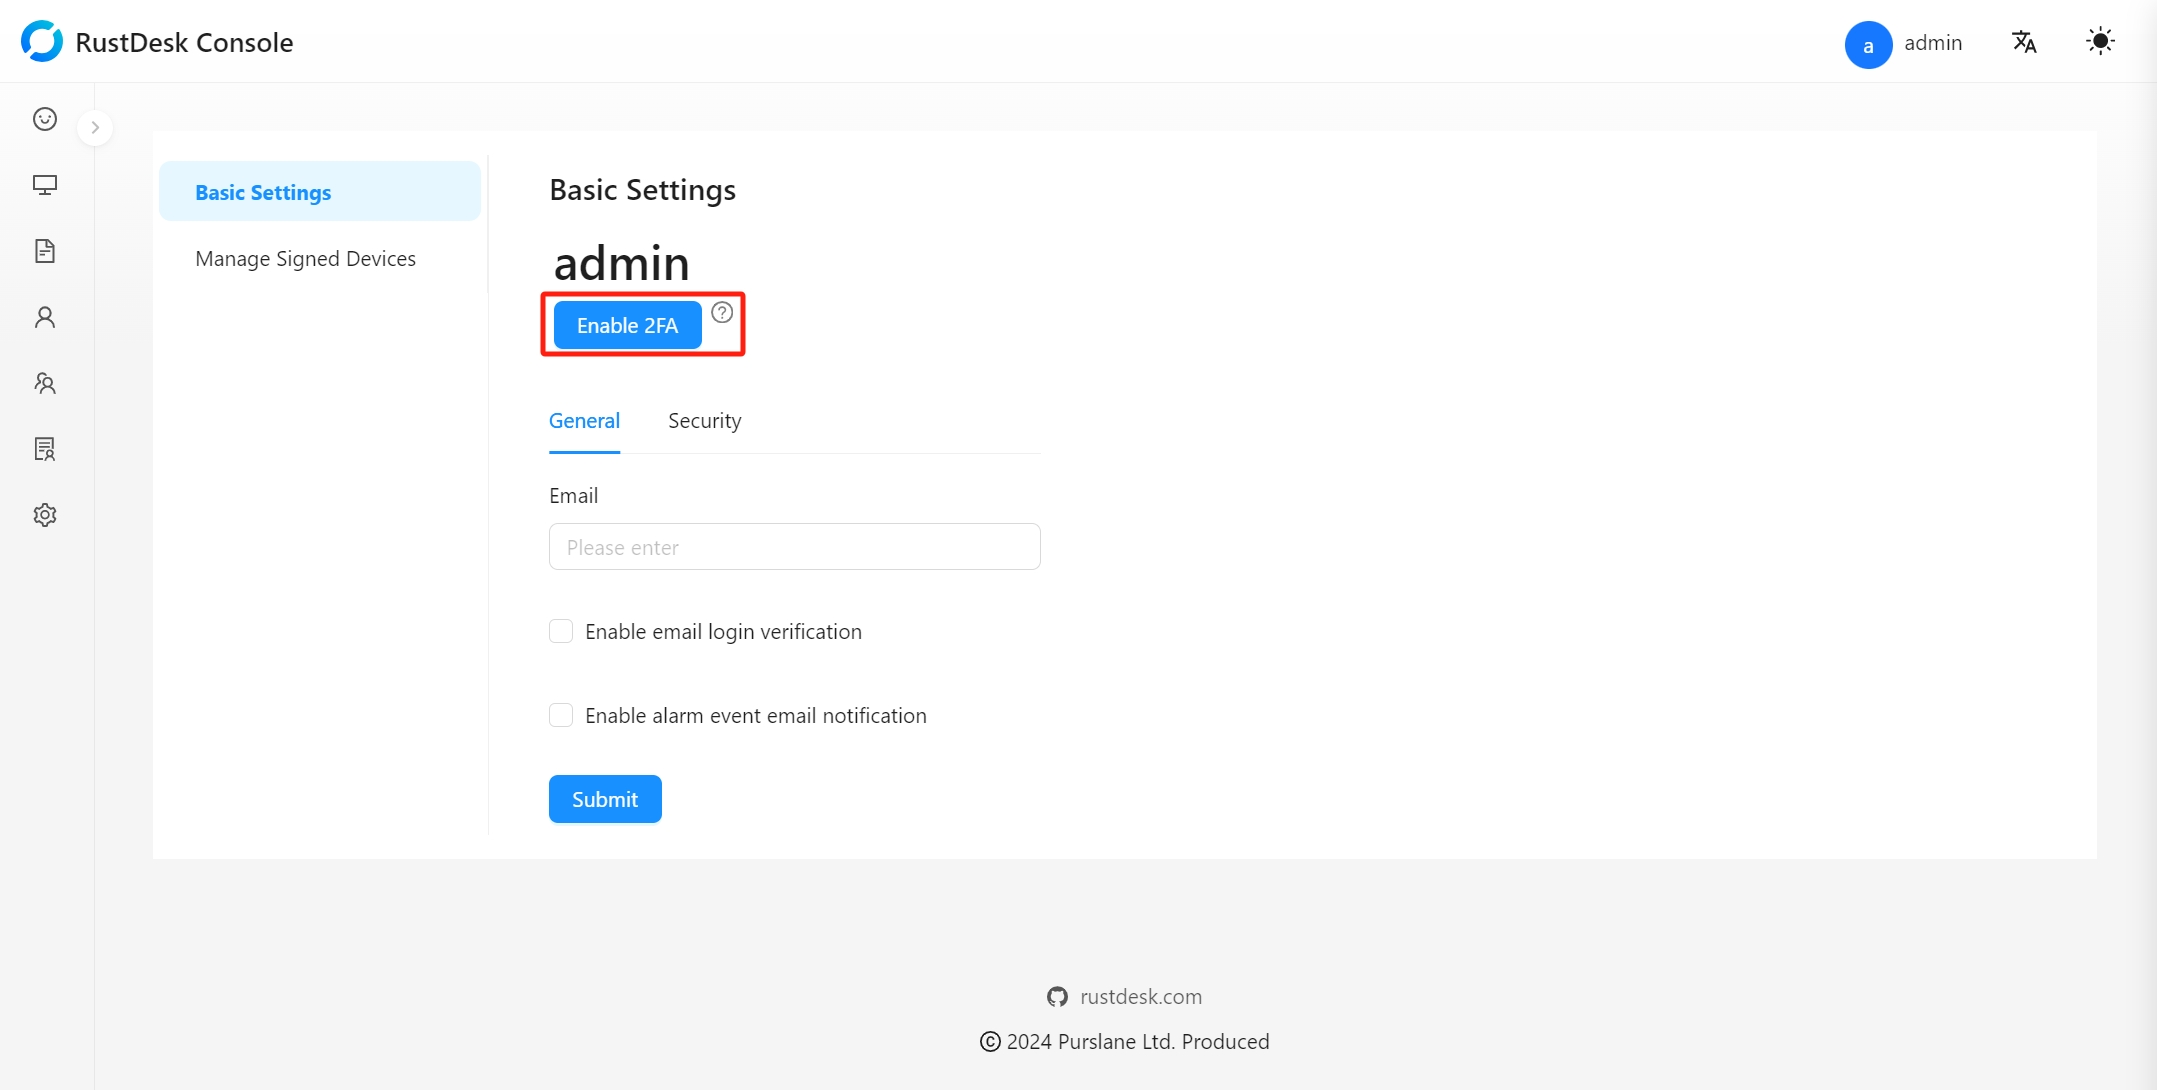
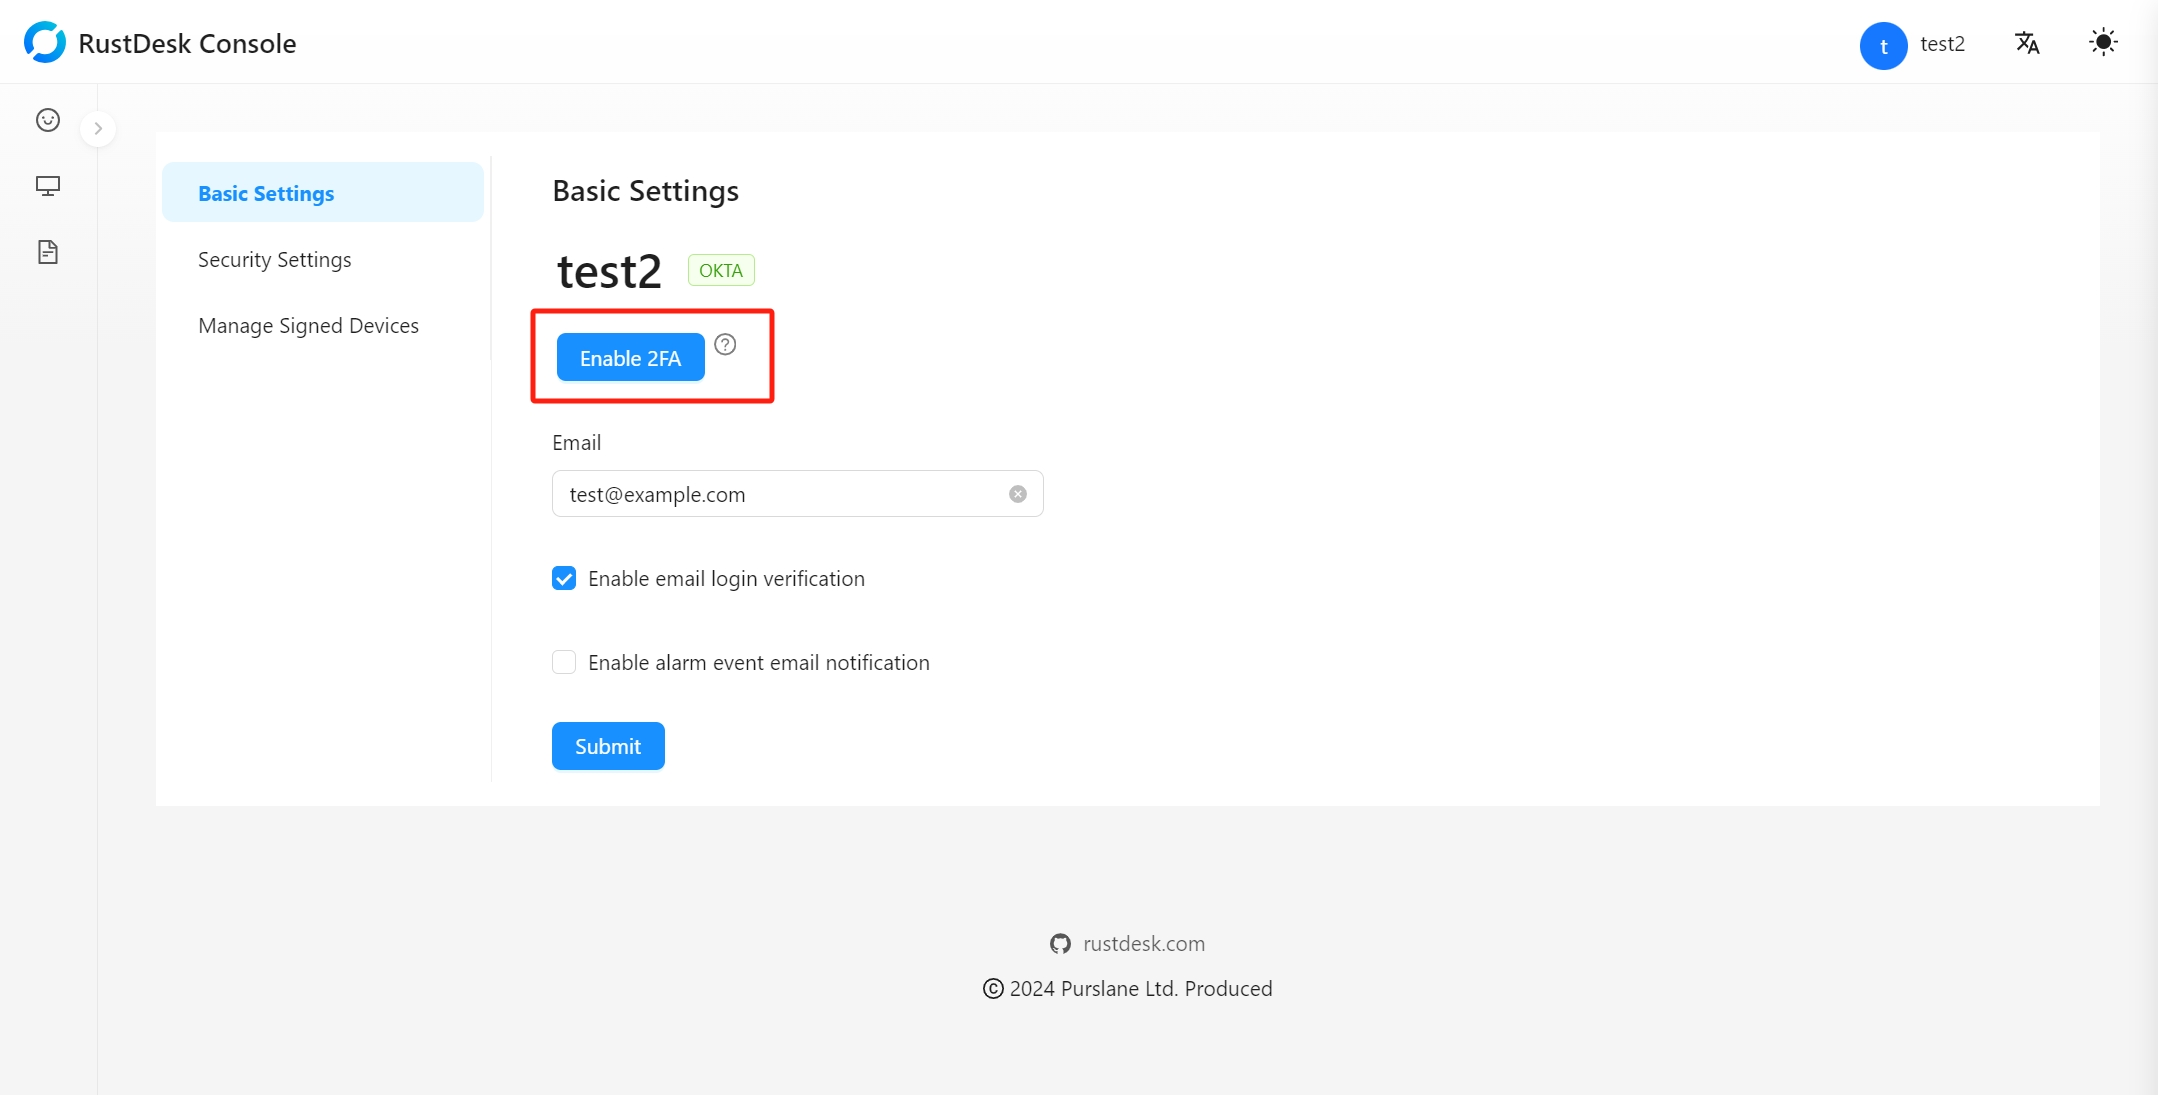
docs, 2fa

diff --git a/content/self-host/rustdesk-server-pro/2FA/_index.en.md b/content/self-host/rustdesk-server-pro/2FA/_index.en.md
@@ -57,7 +57,7 @@ If you are inconvenient to scan the QR code, you can also enter the code here di
 
 After adding the account in the authenticator app, enter the verification code in the authenticator app to turn on 2FA.
 
-After 2FA is successfully turned on, RustDesk Server Pro will also be bound to 10 **backup codes**. So that you can use these **bacoup codes** to pass the verification even if you are unable to use the authenticator app.
+After 2FA is successfully turned on, RustDesk Server Pro will also be bound to 6 **backup codes**. So that you can use these **bacoup codes** to pass the verification even if you are unable to use the authenticator app.
 
 ![](/docs/en/self-host/rustdesk-server-pro/2FA/images/3-2fa-enable-4.png)
 
@@ -69,7 +69,7 @@ After 2FA is successfully turned on, RustDesk Server Pro will also be bound to 1
 
 #### Login verification
 
-Enable the "Enable 2FA login verification" option on the settings page.
+When 2FA is enabled, email login verification is no longer used. We will be using 2FA login verification instead.
 
 ![](/docs/en/self-host/rustdesk-server-pro/2FA/images/3-2fa-enable-login-5.png)
 
@@ -81,7 +81,7 @@ When logging in, you will be redirected to the verification page.
 
 #### Modify settings
 
-After turning on 2FA, modifying account settings requires additional 2FA verification.
+When 2FA is enabled, modifying account settings requires additional 2FA verification.
 
 ![](/docs/en/self-host/rustdesk-server-pro/2FA/images/3-2fa-settings-1.png)
 
